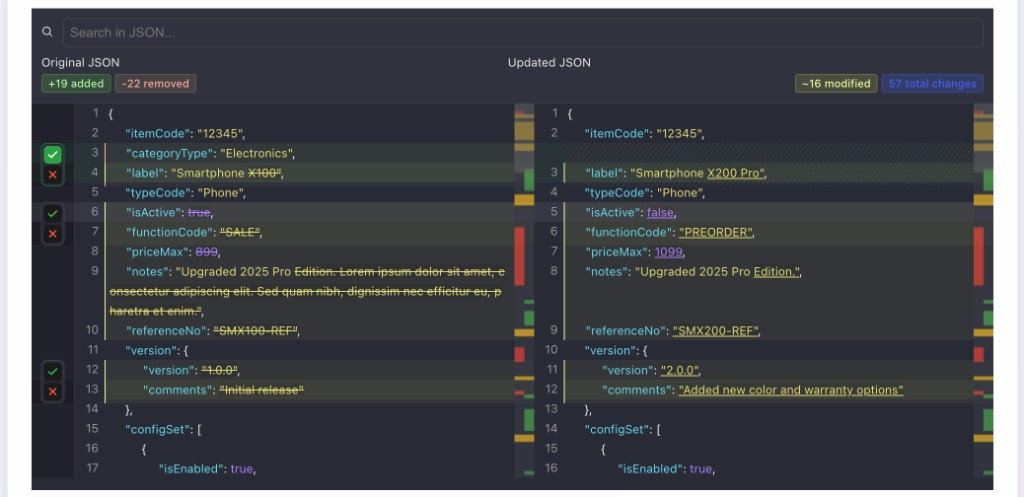
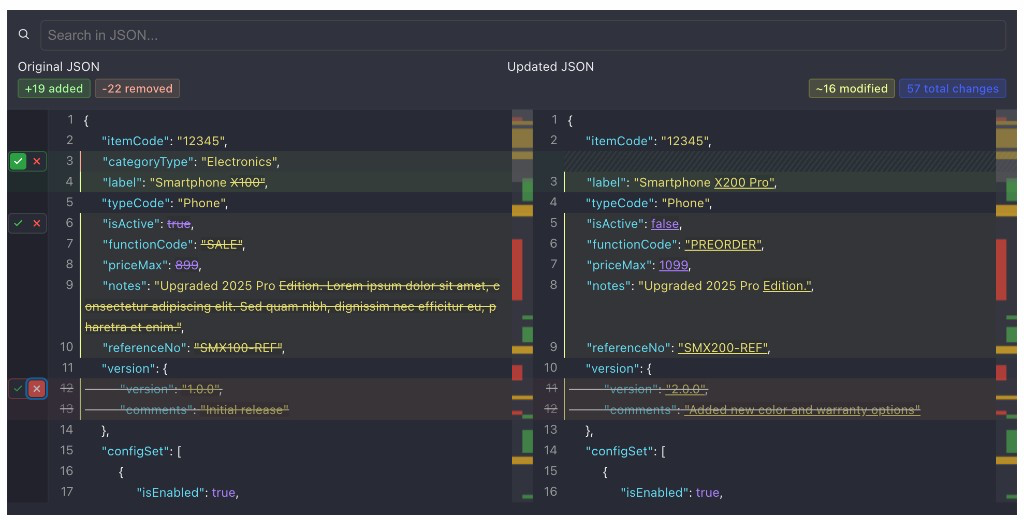
chore: bug fix and image replace

diff --git a/demo/vite.config.ts b/demo/vite.config.ts
@@ -1,0 +1,28 @@
+import path from "node:path";
+import { fileURLToPath } from "node:url";
+
+import react from "@vitejs/plugin-react";
+import { defineConfig } from "vite";
+
+const demoRoot = path.dirname(fileURLToPath(import.meta.url));
+
+/**
+ * Local `file:../` link resolves `react` from the library root (18.x) while
+ * the demo app uses React 19 — Vite then mixes two React copies and crashes.
+ * Force a single React from demo/node_modules.
+ */
+export default defineConfig({
+  plugins: [react()],
+  resolve: {
+    dedupe: ["react", "react-dom"],
+    alias: {
+      react: path.resolve(demoRoot, "node_modules/react"),
+      "react-dom": path.resolve(demoRoot, "node_modules/react-dom"),
+      "react/jsx-runtime": path.resolve(demoRoot, "node_modules/react/jsx-runtime.js"),
+      "react/jsx-dev-runtime": path.resolve(
+        demoRoot,
+        "node_modules/react/jsx-dev-runtime.js",
+      ),
+    },
+  },
+});
